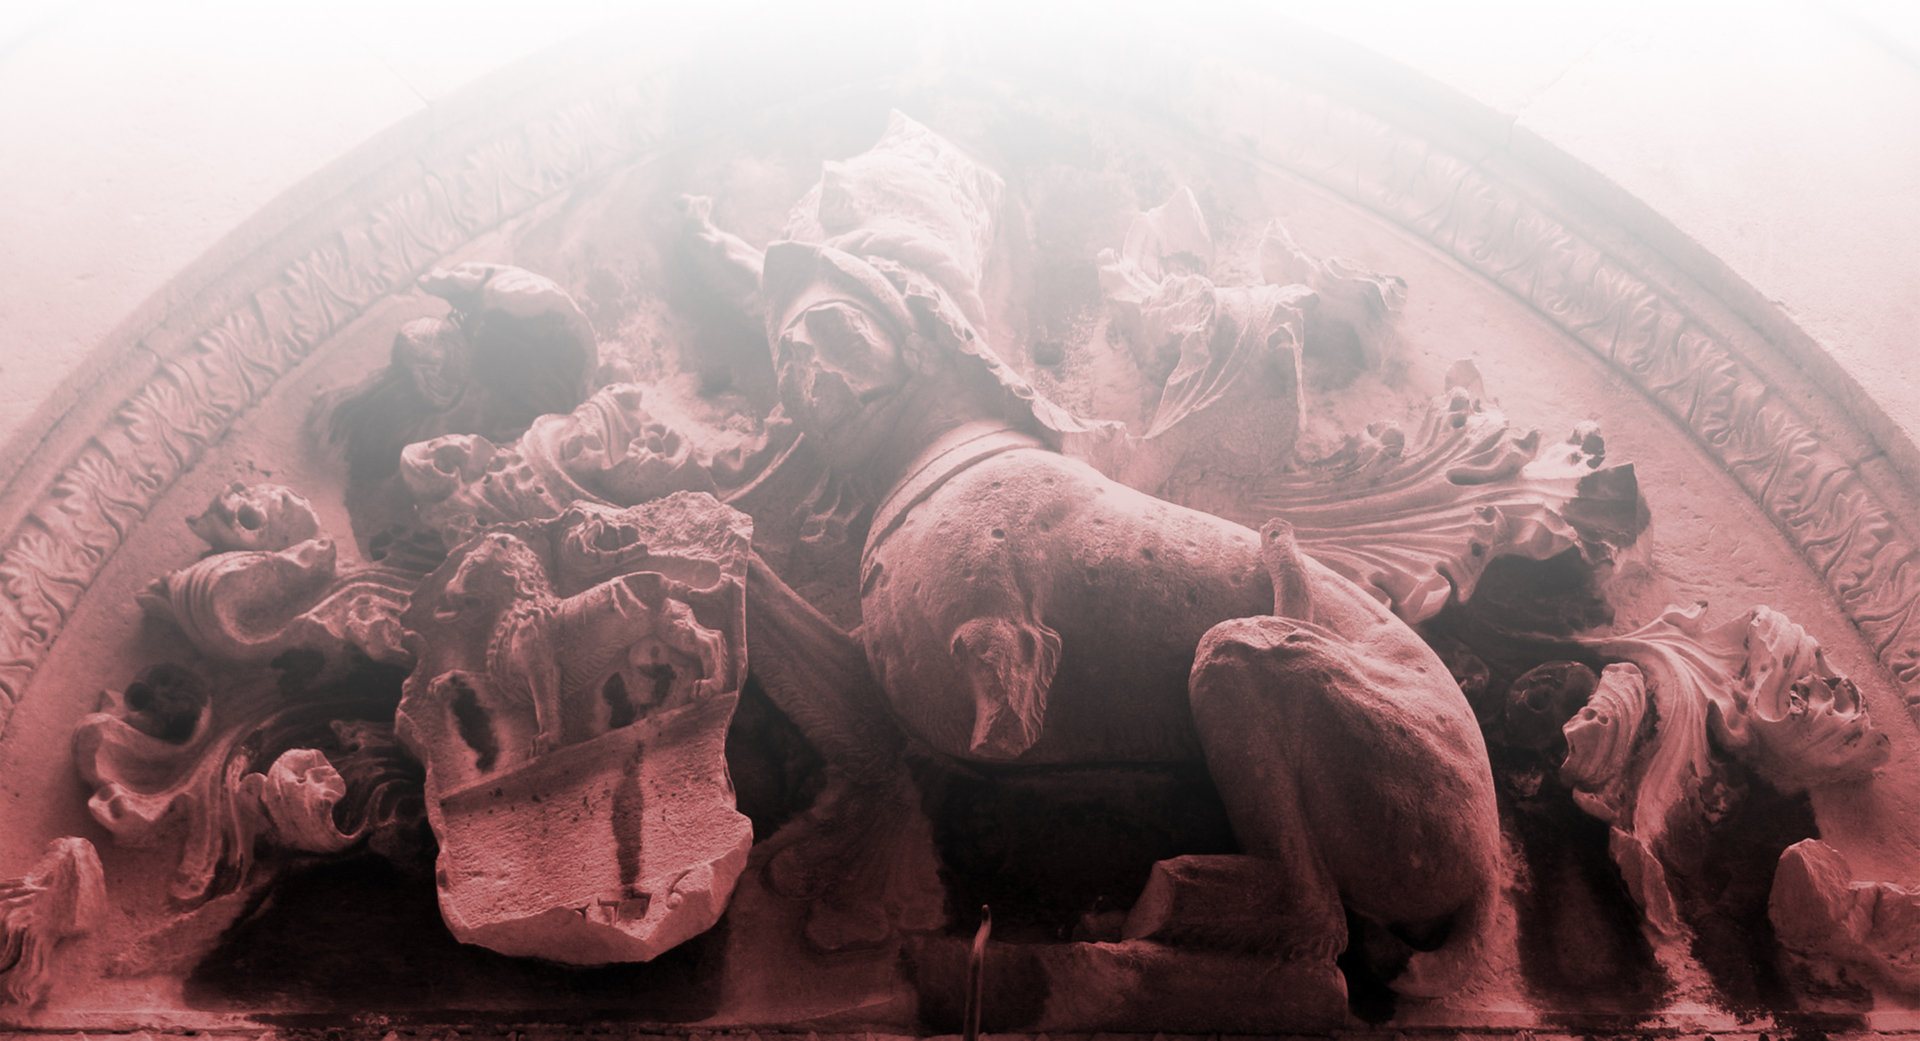
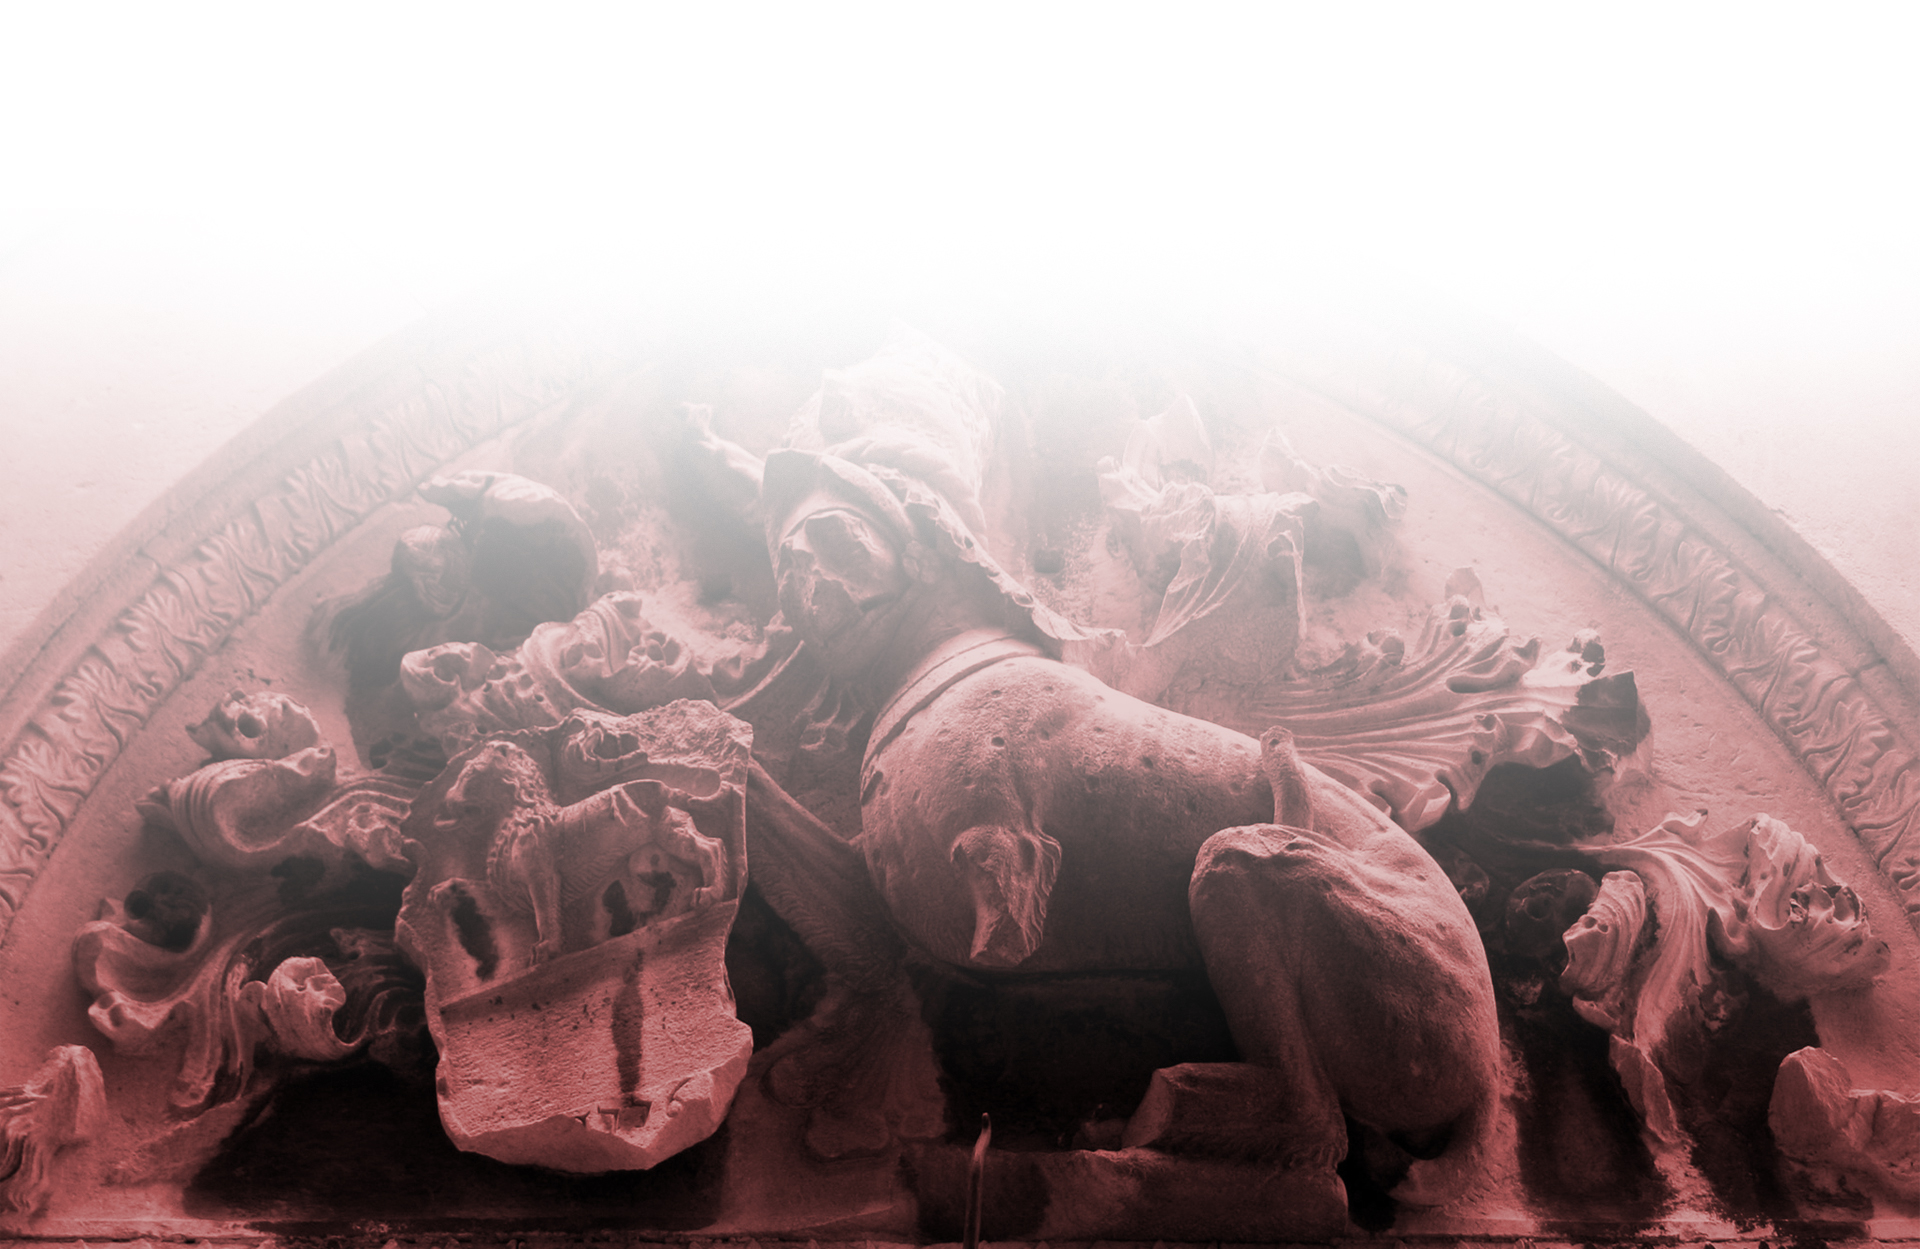
jajor

diff --git a/resources/views/layouts/navigation.blade.php b/resources/views/layouts/navigation.blade.php
@@ -28,7 +28,7 @@
                 </div>
 
                 <!-- Navigation Links -->
-                <div class="hidden space-x-6 sm:-my-px sm:ms-10 sm:flex sm:items-center">
+                <div class="hidden sm:ms-8 sm:flex sm:items-center sm:justify-start sm:gap-x-8">
                     @if($isKkAdmin || $isKkSection)
                         <x-nav-link :href="route('cultural-calendar.index')" :active="request()->routeIs('cultural-calendar.index')">
                             Kalendar kulture
@@ -42,11 +42,18 @@
                         @if($isKkAdmin)
                             <a
                                 href="{{ route('cultural-events.index') }}"
-                                @class([
-                                    'inline-flex items-center px-3 py-1.5 rounded-md text-sm font-semibold text-white transition duration-150 ease-in-out',
-                                    'bg-[#7a0f17] hover:bg-[#5f0c12]' => ! request()->routeIs('cultural-events.*'),
-                                    'bg-[#5f0c12] ring-2 ring-offset-1 ring-[#7a0f17]' => request()->routeIs('cultural-events.*'),
-                                ])
+                                style="
+                                    display: inline-flex;
+                                    align-items: center;
+                                    padding: 8px 14px;
+                                    border-radius: 8px;
+                                    background: {{ request()->routeIs('cultural-events.*') ? '#5f0c12' : '#7a0f17' }};
+                                    color: #ffffff;
+                                    font-size: 14px;
+                                    font-weight: 600;
+                                    text-decoration: none;
+                                    white-space: nowrap;
+                                "
                             >
                                 Događaji
                             </a>
@@ -163,11 +170,16 @@
                 @if($isKkAdmin)
                     <a
                         href="{{ route('cultural-events.index') }}"
-                        @class([
-                            'block w-full ps-3 pe-4 py-2 text-start text-base font-semibold text-white',
-                            'bg-[#7a0f17]' => ! request()->routeIs('cultural-events.*'),
-                            'bg-[#5f0c12]' => request()->routeIs('cultural-events.*'),
-                        ])
+                        style="
+                            display: block;
+                            width: 100%;
+                            padding: 10px 16px;
+                            background: {{ request()->routeIs('cultural-events.*') ? '#5f0c12' : '#7a0f17' }};
+                            color: #ffffff;
+                            font-size: 16px;
+                            font-weight: 600;
+                            text-decoration: none;
+                        "
                     >
                         Događaji
                     </a>

diff --git a/resources/views/components/nav-link.blade.php b/resources/views/components/nav-link.blade.php
@@ -5,12 +5,12 @@ $isKkSection = request()->routeIs('cultural-calendar.*', 'cultural-events.*');
 $classes = ($active ?? false)
             ? (
                 $isKkSection
-                    ? 'inline-flex items-center px-1 pt-1 border-b-2 border-indigo-400 text-sm font-medium leading-5 text-gray-900 focus:outline-none focus:border-indigo-700 transition duration-150 ease-in-out'
+                    ? 'inline-flex items-center px-1 pt-1 border-b-2 border-indigo-400 text-sm font-medium leading-5 text-gray-900 focus:outline-none focus:border-indigo-700 transition duration-150 ease-in-out whitespace-nowrap'
                     : 'inline-flex items-center px-1 pt-1 border-b-2 border-indigo-400 dark:border-indigo-600 text-sm font-medium leading-5 text-gray-900 dark:text-gray-100 focus:outline-none focus:border-indigo-700 transition duration-150 ease-in-out'
             )
             : (
                 $isKkSection
-                    ? 'inline-flex items-center px-1 pt-1 border-b-2 border-transparent text-sm font-medium leading-5 text-gray-500 hover:text-gray-700 hover:border-gray-300 focus:outline-none focus:text-gray-700 focus:border-gray-300 transition duration-150 ease-in-out'
+                    ? 'inline-flex items-center px-1 pt-1 border-b-2 border-transparent text-sm font-medium leading-5 text-gray-500 hover:text-gray-700 hover:border-gray-300 focus:outline-none focus:text-gray-700 focus:border-gray-300 transition duration-150 ease-in-out whitespace-nowrap'
                     : 'inline-flex items-center px-1 pt-1 border-b-2 border-transparent text-sm font-medium leading-5 text-gray-500 dark:text-gray-400 hover:text-gray-700 dark:hover:text-gray-300 hover:border-gray-300 dark:hover:border-gray-700 focus:outline-none focus:text-gray-700 dark:focus:text-gray-300 focus:border-gray-300 dark:focus:border-gray-700 transition duration-150 ease-in-out'
             );
 @endphp

diff --git a/resources/views/layouts/app.blade.php b/resources/views/layouts/app.blade.php
@@ -38,6 +38,7 @@
                 .kk-section-wrap {
                     position: relative;
                     isolation: isolate;
+                    background-color: #f3f4f6;
                 }
                 .kk-scroll-bg {
                     display: block;
@@ -46,10 +47,9 @@
                     right: 0;
                     bottom: 0;
                     width: 100%;
-                    height: min(55vh, 620px);
+                    height: auto;
                     z-index: 0;
                     pointer-events: none;
-                    background: url('{{ asset('img/KKBG.jpg') }}') center bottom / cover no-repeat;
                     opacity: 0.3;
                 }
                 .kk-section-wrap > nav,
@@ -60,9 +60,6 @@
                 }
                 .kk-section-wrap > main {
                     background: transparent;
-                }
-                .kk-section-wrap {
-                    background-color: #f3f4f6;
                 }
             }
             @endif
@@ -75,7 +72,12 @@
             'kk-section-wrap' => $isKkSection,
         ])>
             @if($isKkSection)
-                <div class="kk-scroll-bg" aria-hidden="true"></div>
+                <img
+                    class="kk-scroll-bg"
+                    src="{{ asset('img/KKBG.jpg') }}?v={{ @filemtime(public_path('img/KKBG.jpg')) ?: time() }}"
+                    alt=""
+                    aria-hidden="true"
+                >
             @endif
             @include('layouts.navigation')
 
